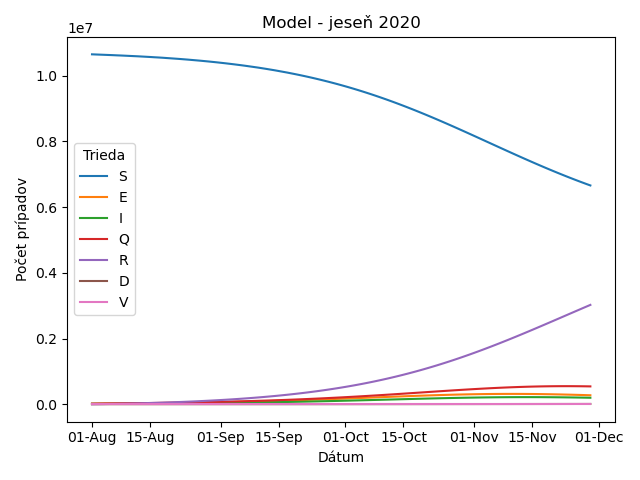
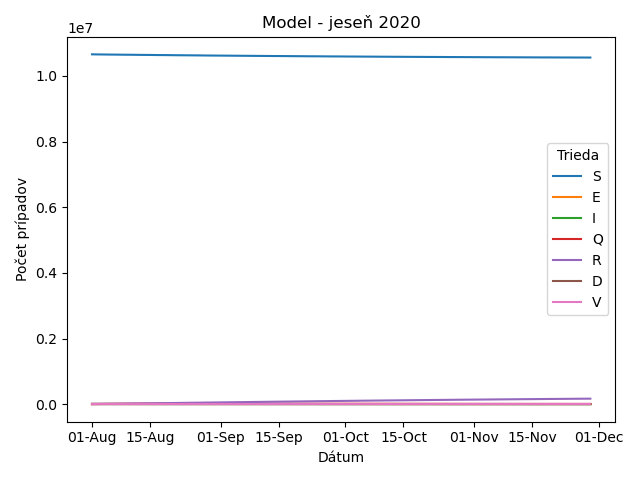
no vaccine data

diff --git a/src/cr_2020_no_vaccine.h b/src/cr_2020_no_vaccine.h
@@ -5,23 +5,23 @@
 #define OUT_FILE "out/cr_2020_no_vaccine.csv"
 
 // Initial values
-#define E0 15000    // exposed (infected, but not yet infectious)
-#define I0 15000    // infectious
-#define Q0 15000    // quarantined
-#define R0 0    // recovered
-#define D0 500    // dead
+#define E0 9000    // exposed (infected, but not yet infectious)
+#define I0 9000   // infectious
+#define Q0 3000    // quarantined
+#define R0 13338    // recovered
+#define D0 382    // dead
 #define V0 0   // vaccinated
-#define S0 (10694364 - E0 - I0 - Q0 - V0)   // susceptible
+#define S0 (10694364 - E0 - I0 - Q0 - V0 - D0 - R0)   // susceptible
 
 // Model paramters
-#define LAMBDA 453 // new births and residents per unit of time
-#define BETA 0.0000000348 // transmisson rate
+#define LAMBDA 815 // new births and residents per unit of time
+#define BETA 0.000000035 // transmisson rate
 #define ALPHA 0.000  // vaccination rate
-#define MU 0.0000356    // natural death rate
+#define MU 0.000033    // natural death rate
 #define GAMMA (1.0/5.5)   // incubation period
 #define SIGMA 1  // vaccine inefficacy
 #define DELTA (1.0/3.8)   // infection time
-#define KAPPA 0.004 // mortality rate
+#define KAPPA 0.005 // mortality rate
 #define THETA (0.10)    // average days until recovery
 #define RHO (1.0/15)      // average days until death
 

diff --git a/plot.py b/plot.py
@@ -164,7 +164,21 @@ def plot_2020_no_vaccine():
                     )
 
 
+def calc_mean_cfr(date_start, date_end):
+    """
+    Calculate the mean CFR over a given time period based on the real data.
+    """
+    
+    df = get_real_dataframe()
+    mask = (df["date"] >= pd.to_datetime(date_start)
+            ) & (df["date"] < pd.to_datetime(date_end))
+    dfs = df[mask].copy()
+    dfs["ratio"] = dfs["total_deaths"]/dfs["total_cases"]
+
+    return dfs["ratio"].mean()
+
 if __name__ == "__main__":
+    calc_mean_cfr("2020-aug-01", "2021-jan-01")
     plot_2020_no_vaccine()
     # plot_2021_vaccine()
 # %%

diff --git a/src/main.cpp b/src/main.cpp
@@ -45,6 +45,7 @@ Sampler S(Sample, 1);        // Output step
 
 int main() {
     double maxtime = MAX_TIME;
+    printf("S: %d\n", S0);
     printf("%lf,%lf,%lf,%lf,%lf,%lf,%lf,%lf,%lf,%lf\n", (double) LAMBDA, ((double) BETA),(double)  ALPHA,(double)  MU,(double)  GAMMA,(double)  SIGMA,(double)  DELTA,(double)  KAPPA,(double)  THETA,(double)  RHO);
     SetOutput(OUT_FILE);    // Redirect output to file
     Print("time,susceptible,exposed,infectious,quarantined,recovered,dead,vaccinated\n");

diff --git a/src/cr_2021_vaccine.h b/src/cr_2021_vaccine.h
@@ -19,7 +19,7 @@
 #define ALPHA 0.001  // vaccination rate
 #define MU 0.0000356    // natural death rate
 #define GAMMA (1.0/5.5)   // incubation period
-#define SIGMA 0.07  // vaccine inefficacy
+#define SIGMA 0.27  // vaccine inefficacy
 #define DELTA (1.0/3.8)   // infection time
 #define KAPPA 0.004 // mortality rate
 #define THETA (0.10)    // average days until recovery
